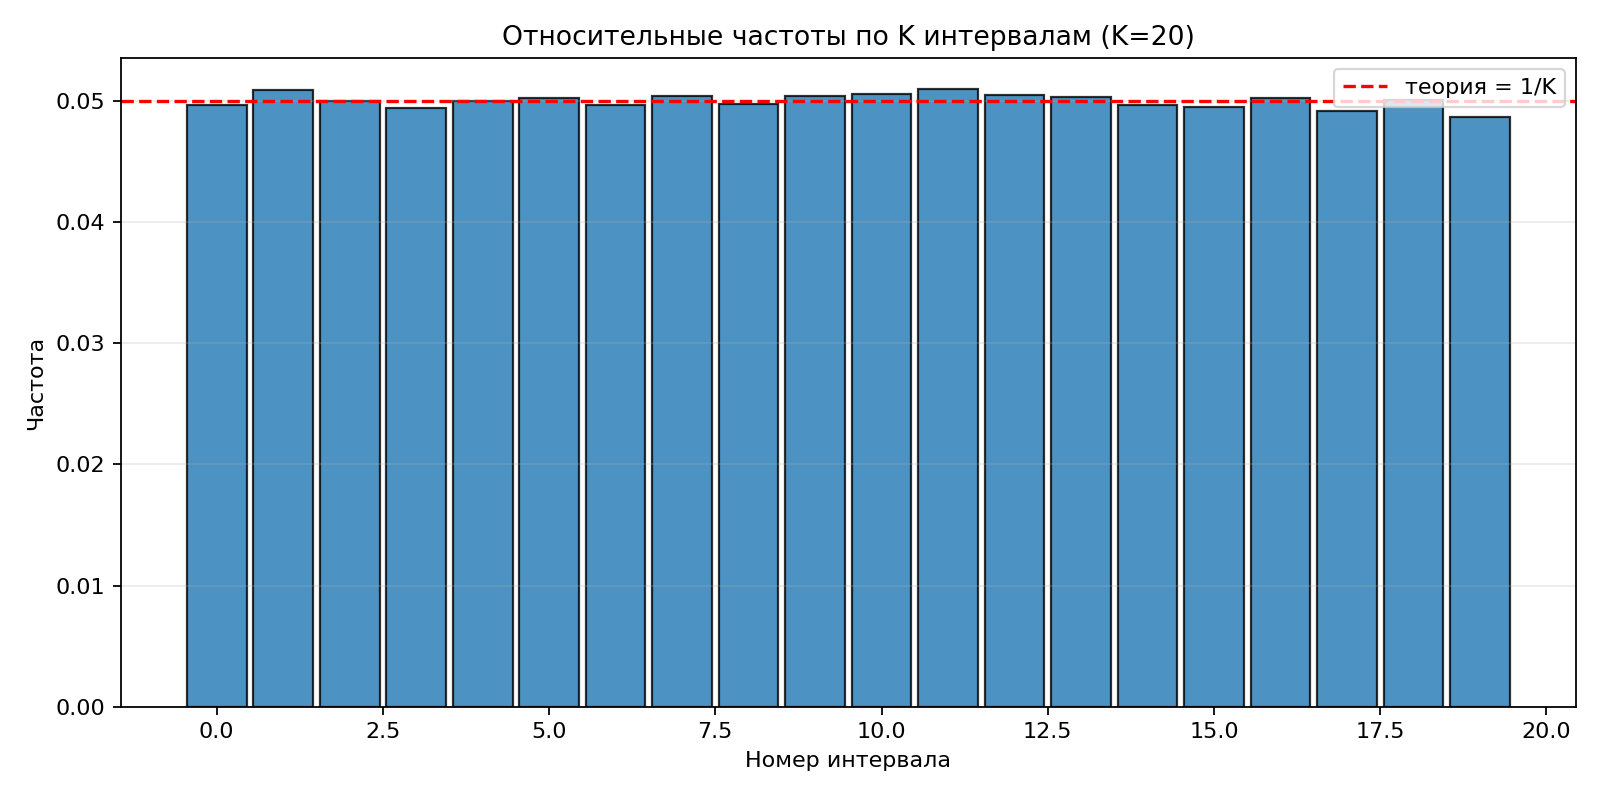
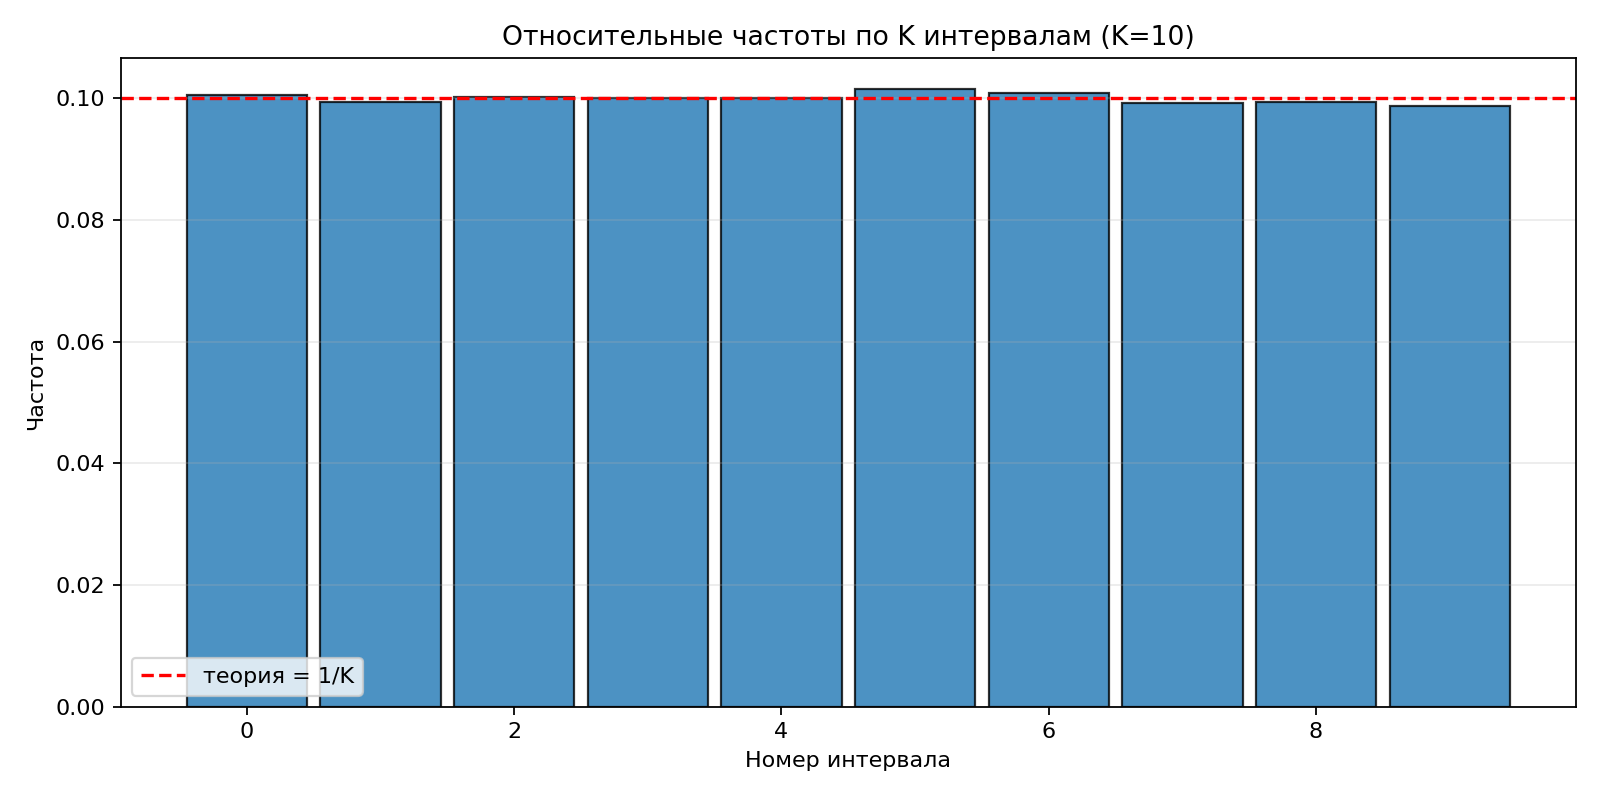
new gisto

diff --git a/6_semester/Моделирование систем/plot_lab1.py b/6_semester/Моделирование систем/plot_lab1.py
@@ -8,6 +8,7 @@
 - Столбчатую диаграмму частот по K интервалам [0,1)
 - Диаграмму рассеяния пар (z_i, z_{i+s}) (визуальная проверка независимости)
 - Автокорреляцию corr(z_i, z_{i+lag}) по lag=1..max_lag
+- График зависимости оценки корреляции R_hat(T) от длины выборки T для нескольких s (как в методичках)
 
 Запуск (из корня репо):
   python3 "6_semester/Моделирование систем/plot_lab1.py" --n 200000 --k 20 --s 1 --max-lag 30
@@ -21,7 +22,7 @@ from __future__ import annotations
 import argparse
 import os
 from pathlib import Path
-from typing import List
+from typing import Iterable, List, Sequence
 
 
 def _ensure_outdir(path: str) -> Path:
@@ -30,12 +31,91 @@ def _ensure_outdir(path: str) -> Path:
     return outdir
 
 
+def _parse_int_list(s: str) -> List[int]:
+    # пример: "2,5,10" -> [2,5,10]
+    parts = [p.strip() for p in s.split(",") if p.strip()]
+    out: List[int] = []
+    for p in parts:
+        out.append(int(p))
+    return out
+
+
+def corr_vs_T(xs: Sequence[float], s: int, Ts: Iterable[int]):
+    """
+    Оценка корреляции r(T) = corr(z_1..z_T, z_{1+s}..z_{T}) для заданного шага s,
+    как функция T.
+
+    Реализовано эффективно через накапливаемые суммы по парам (x_i, y_i) = (z_i, z_{i+s}).
+    Для фиксированного T число пар равно n_pairs = T - s.
+    """
+    if s <= 0:
+        raise ValueError("s must be >= 1")
+    n = len(xs)
+    if n <= s + 2:
+        raise ValueError("n is too small for this s")
+
+    # running sums for pairs (x_i, y_i), i = 0..(t-1)
+    sum_x = 0.0
+    sum_y = 0.0
+    sum_x2 = 0.0
+    sum_y2 = 0.0
+    sum_xy = 0.0
+    t_pairs = 0  # number of accumulated pairs
+
+    # We will generate answers in increasing T; require Ts increasing for efficiency.
+    Ts_sorted = list(Ts)
+    if Ts_sorted != sorted(Ts_sorted):
+        raise ValueError("Ts must be sorted ascending")
+
+    results = []
+    next_pair_idx = 0  # next i to add pair (xs[i], xs[i+s])
+
+    for T in Ts_sorted:
+        if T > n:
+            break
+        if T <= s + 1:
+            results.append(0.0)
+            continue
+
+        target_pairs = T - s  # number of pairs for this T
+        while t_pairs < target_pairs and (next_pair_idx + s) < n:
+            x = float(xs[next_pair_idx])
+            y = float(xs[next_pair_idx + s])
+            next_pair_idx += 1
+            t_pairs += 1
+            sum_x += x
+            sum_y += y
+            sum_x2 += x * x
+            sum_y2 += y * y
+            sum_xy += x * y
+
+        # Pearson correlation using running sums:
+        # r = (t*sum_xy - sum_x*sum_y) / sqrt((t*sum_x2 - sum_x^2)*(t*sum_y2 - sum_y^2))
+        t = float(t_pairs)
+        num = t * sum_xy - sum_x * sum_y
+        den_x = t * sum_x2 - sum_x * sum_x
+        den_y = t * sum_y2 - sum_y * sum_y
+        denom = (den_x * den_y) ** 0.5 if den_x > 0 and den_y > 0 else 0.0
+        r = num / denom if denom != 0.0 else 0.0
+        results.append(r)
+
+    return Ts_sorted[: len(results)], results
+
+
 def main() -> int:
     ap = argparse.ArgumentParser(description="ЛР1: построение графиков (гистограмма/частоты/корреляции) для LCG")
     ap.add_argument("--n", type=int, default=200_000, help="объём выборки")
     ap.add_argument("--k", type=int, default=20, help="число интервалов/бинов на [0,1)")
     ap.add_argument("--s", type=int, default=1, help="шаг s для пар (z_i, z_{i+s})")
     ap.add_argument("--max-lag", type=int, default=30, help="максимальный лаг для графика автокорреляции")
+    ap.add_argument(
+        "--s-list",
+        type=str,
+        default="2,5,10",
+        help="список s для графика R(T) (пример: 2,5,10)",
+    )
+    ap.add_argument("--t-max", type=int, default=2000, help="максимальный T для графика R(T)")
+    ap.add_argument("--t-step", type=int, default=5, help="шаг по T для графика R(T)")
     ap.add_argument("--seed", type=int, default=123456789, help="стартовое значение X0")
     ap.add_argument("--high-bits", type=int, default=24, help="сколько старших бит использовать для z")
     ap.add_argument(
@@ -70,13 +150,19 @@ def main() -> int:
     )
     x = np.asarray(xs, dtype=float)
 
-    # --- 1) Гистограмма ---
+    # --- 1) Гистограмма (как в отчётах: относительные частоты по интервалам) ---
+    # Важно: делим [0,1] на K равных интервалов => ширина интервала = 1/K.
+    # Высота столбца = (число попаданий в интервал) / n.
     plt.figure(figsize=(10, 5))
-    plt.hist(x, bins=args.k, range=(0.0, 1.0), density=True, edgecolor="black", alpha=0.75)
-    plt.title(f"Гистограмма выборки z (n={args.n}, bins={args.k})")
-    plt.xlabel("z")
-    plt.ylabel("Плотность (нормировано)")
+    edges = np.linspace(0.0, 1.0, args.k + 1)
+    weights = np.ones_like(x) / float(len(x))  # чтобы получить относительные частоты
+    plt.hist(x, bins=edges, weights=weights, edgecolor="black", alpha=0.85)
+    plt.axhline(1.0 / args.k, color="red", linestyle="--", linewidth=1.5, label="Теоретическая частота (1/K)")
+    plt.title("Гистограмма распределения БСВ")
+    plt.xlabel("Интервал")
+    plt.ylabel("Относительная частота")
     plt.grid(True, alpha=0.25)
+    plt.legend()
     hist_path = outdir / "histogram.png"
     plt.tight_layout()
     plt.savefig(hist_path, dpi=160)
@@ -129,11 +215,35 @@ def main() -> int:
     plt.tight_layout()
     plt.savefig(ac_path, dpi=160)
 
+    # --- 5) R_hat(T) от T для нескольких s ---
+    s_list = [v for v in _parse_int_list(args.s_list) if v >= 1]
+    t_max = max(10, int(args.t_max))
+    t_step = max(1, int(args.t_step))
+    t_max = min(t_max, args.n)
+    Ts = list(range(1, t_max + 1, t_step))
+
+    plt.figure(figsize=(10, 5))
+    for s_val in s_list:
+        if s_val >= args.n - 2:
+            continue
+        TT, RR = corr_vs_T(xs, s_val, Ts)
+        plt.plot(TT, RR, linewidth=1.5, label=f"s={s_val}")
+    plt.axhline(0.0, color="black", linewidth=1.0)
+    plt.title("Графики зависимости R от T")
+    plt.xlabel("T")
+    plt.ylabel("R(T)")
+    plt.grid(True, alpha=0.25)
+    plt.legend()
+    rt_path = outdir / "corr_vs_T.png"
+    plt.tight_layout()
+    plt.savefig(rt_path, dpi=160)
+
     print("Графики сохранены в:", str(outdir))
     print("-", hist_path.name)
     print("-", freq_path.name)
     print("-", scatter_path.name)
     print("-", ac_path.name)
+    print("-", rt_path.name)
 
     if args.show:
         plt.show()
